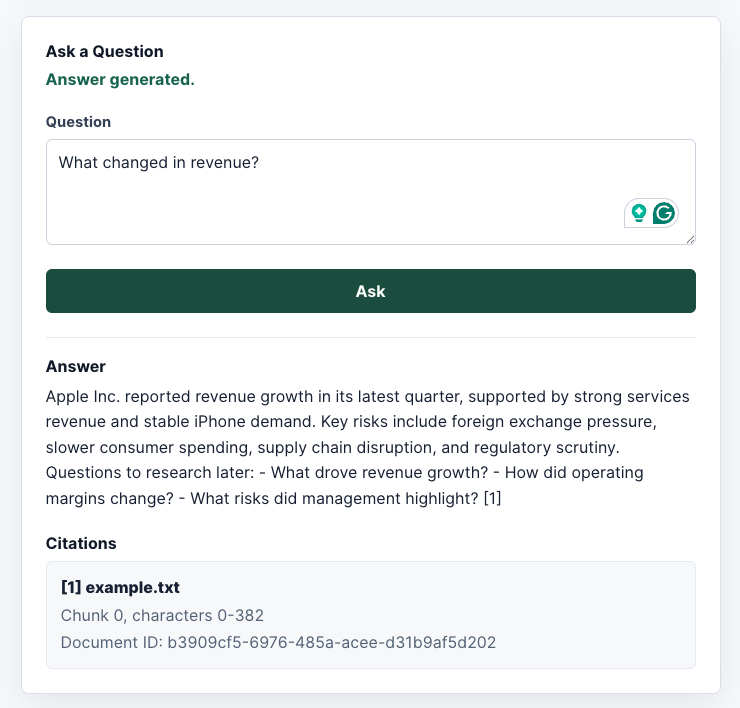
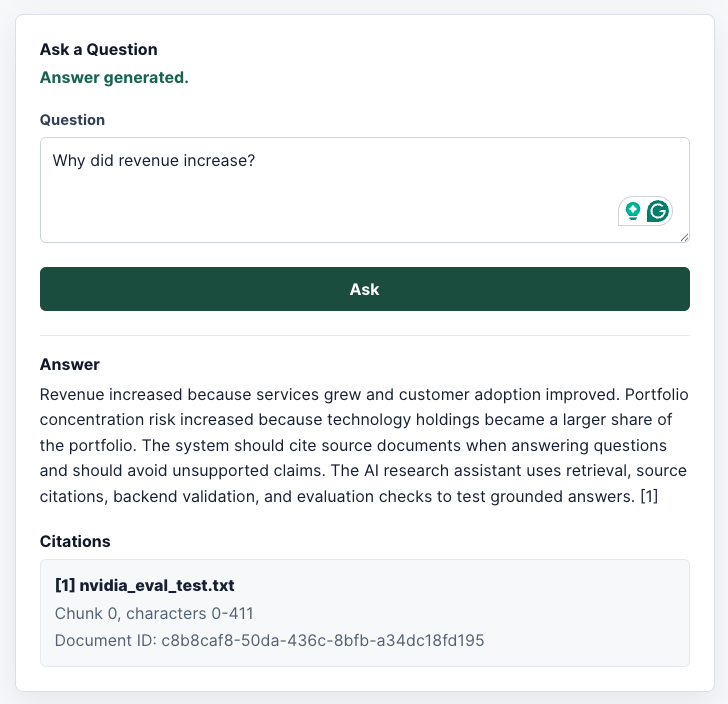
Update screenshots for RAG evaluation workflow

diff --git a/README.md b/README.md
@@ -36,6 +36,14 @@ The goal is a portfolio-ready full-stack app: useful product behavior, clear arc
 
 ![Portfolio risk summary](docs/screenshots/portfolio-risk-summary.png)
 
+### RAG evaluation harness
+
+![RAG evaluation pass report](docs/screenshots/rag-evaluation-pass.png)
+
+### Evaluation failure detection
+
+![RAG evaluation failure report](docs/screenshots/rag-evaluation-fail.png)
+
 ## Tech Stack
 
 - Frontend: React, TypeScript, Vite